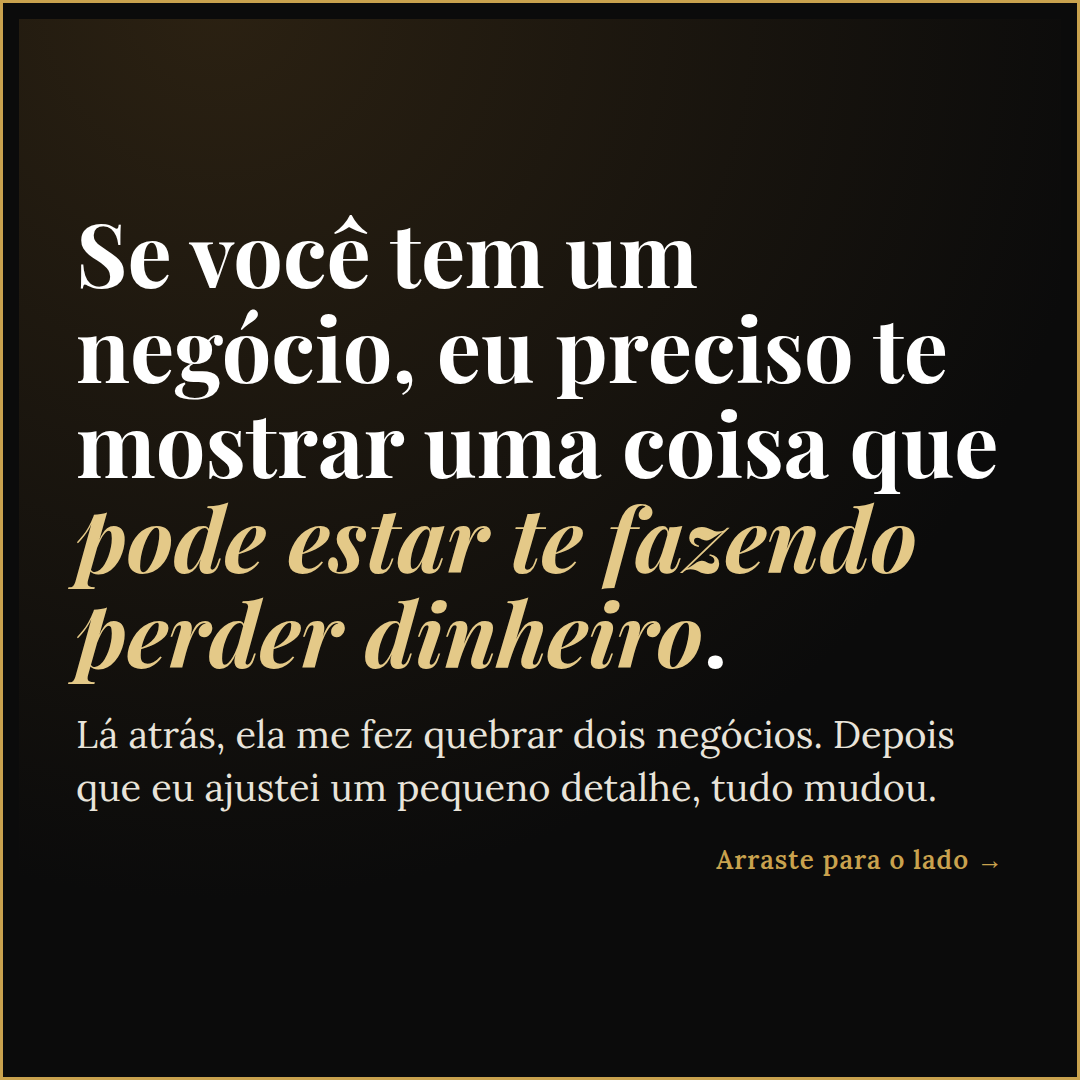
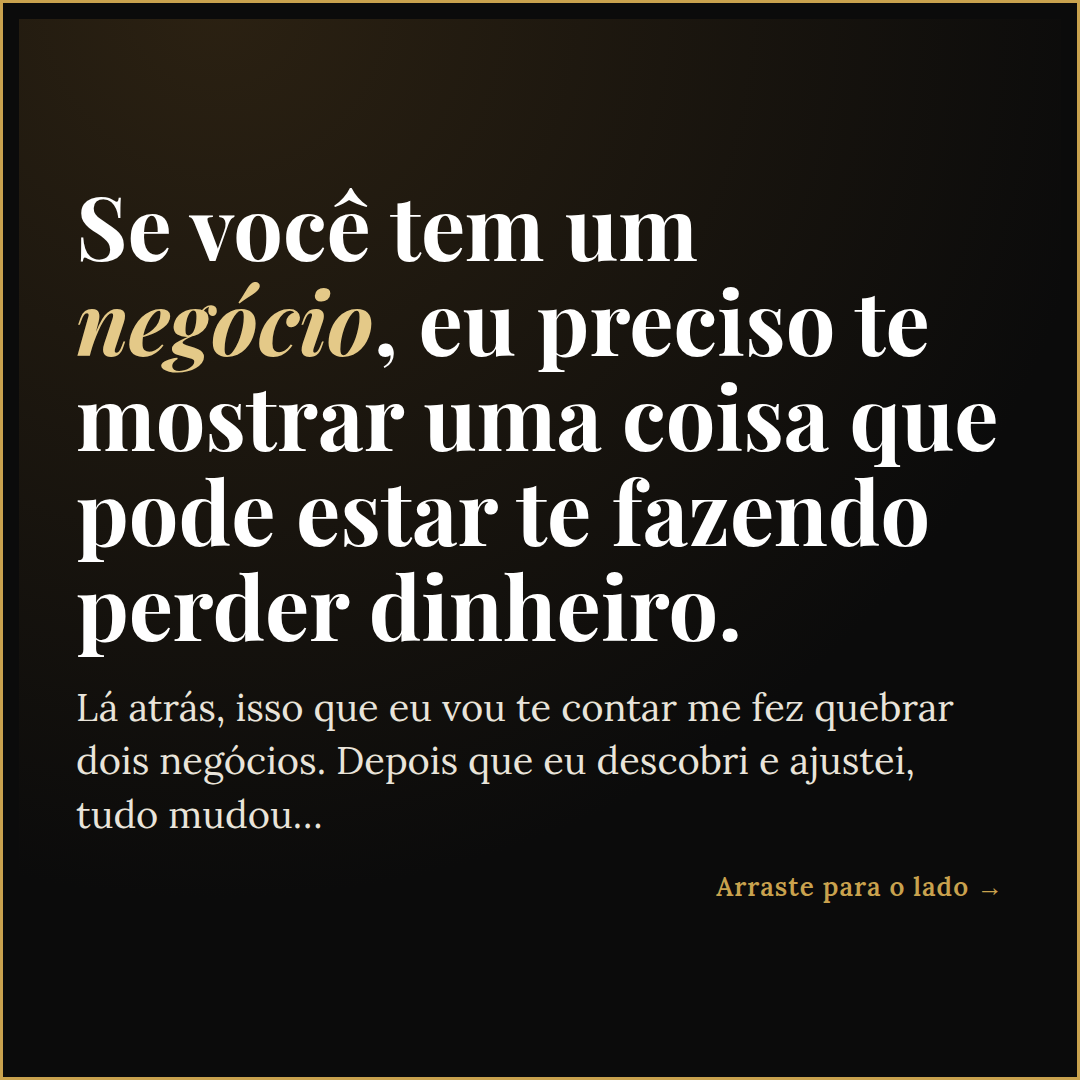
Carrossel Recria Ads: card 1 com negócio destacado
Claude-Session: https://claude.ai/code/session_01DxpPKgzfVt8WYQSkZW1Msu

Changed region(s): [[0.0611, 0.1833, 0.9167, 0.7639], [0.6417, 0.7944, 0.9167, 0.8556]]

diff --git a/recria/criativos-estaticos/gerar-recria-ads.js b/recria/criativos-estaticos/gerar-recria-ads.js
@@ -7,7 +7,7 @@ const FORMATS={
 };
 const ITEMS=[
 ["ads-1-dor","Recria Ads","Você cria conteúdo e anúncio, mas <em>quase ninguém compra</em>?","Isso não é falta de esforço: é que o jeito de vender mudou. Aprenda a criar conteúdo e anúncio sem cara de anúncio e aumente as vendas do seu negócio.","Apenas 12x de R$ 10,03","Quero saber mais",""],
-["ads-2a-historia","","Se você tem um negócio, eu preciso te mostrar uma coisa que <em>pode estar te fazendo perder dinheiro</em>.","Lá atrás, ela me fez quebrar dois negócios. Depois que eu ajustei um pequeno detalhe, tudo mudou.","","","seta1"],
+["ads-2a-historia","","Se você tem um <em>negócio</em>, eu preciso te mostrar uma coisa que pode estar te fazendo perder dinheiro.","Lá atrás, isso que eu vou te contar me fez quebrar dois negócios. Depois que eu descobri e ajustei, tudo mudou…","","","seta1"],
 ["ads-2b-revelacao","","Percebeu? <em>Parabéns, você acabou de cair no anúncio.</em>","Eu retive a sua atenção, gerei identificação e fiz você arrastar para o lado para continuar lendo, mesmo sem me conhecer. E sabe por quê?","","","seta"],
 ["ads-2c-porque","","Todo mundo pula anúncio <em>com cara de anúncio</em>, mas para por uma boa história.","Uma história bem amarrada aos interesses e desejos de quem lê. É a neurociência: o cérebro presta atenção no que fala dele, do que ele quer e do que o interessa.||E sabe qual é o ponto mais importante disso?","","","seta"],
 ["ads-2d-gancho","","Você vai aprender a parar de criar conteúdo com <em>cara de vendedor chato</em>.","Aquele que não agrega, não desperta desejo, só joga o preço na cara da pessoa e te faz perder tempo com um anúncio que ninguém vai comprar no fim das contas.||Se você está pronto para criar conteúdo e anúncio e vender até quando não está vendendo… então você precisa saber o que é crucial para isso…","","","seta"],

diff --git a/recria/criativos-estaticos/recria-ads/legendas-recria-ads.md b/recria/criativos-estaticos/recria-ads/legendas-recria-ads.md
@@ -10,7 +10,7 @@ No Recria Ads, você aprende a criar conteúdo e anúncio sem cara de anúncio e
 👉 Clique em "Quero saber mais".
 
 ## Criativo 2, carrossel de 5 cards (ads-2a-historia, 2b-revelacao, 2c-porque, 2d-gancho, 2e-oferta)
-Se você tem um negócio, eu preciso te mostrar uma coisa que pode estar te fazendo perder dinheiro. Lá atrás, ela me fez quebrar dois negócios. Depois que eu ajustei um pequeno detalhe, tudo mudou. 👀
+Se você tem um negócio, eu preciso te mostrar uma coisa que pode estar te fazendo perder dinheiro. Lá atrás, isso que eu vou te contar me fez quebrar dois negócios. Depois que eu descobri e ajustei, tudo mudou… 👀
 Arraste para o lado. 👉
 No Recria Ads, você aprende a criar conteúdo e anúncio sem cara de anúncio e vende com leveza e naturalidade, sem parecer aquele vendedor chato.
 👉 Clique em "Quero saber mais".
